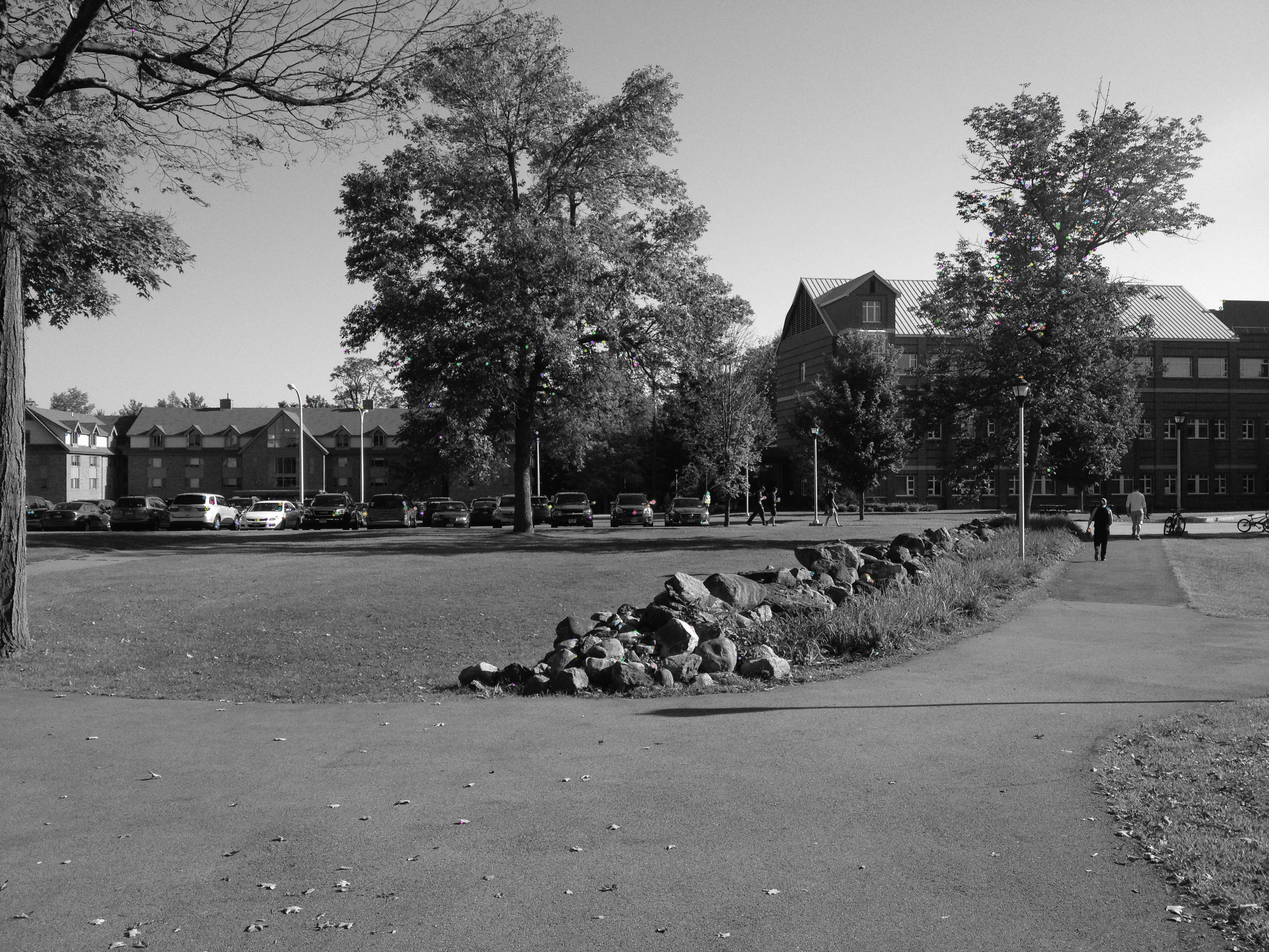
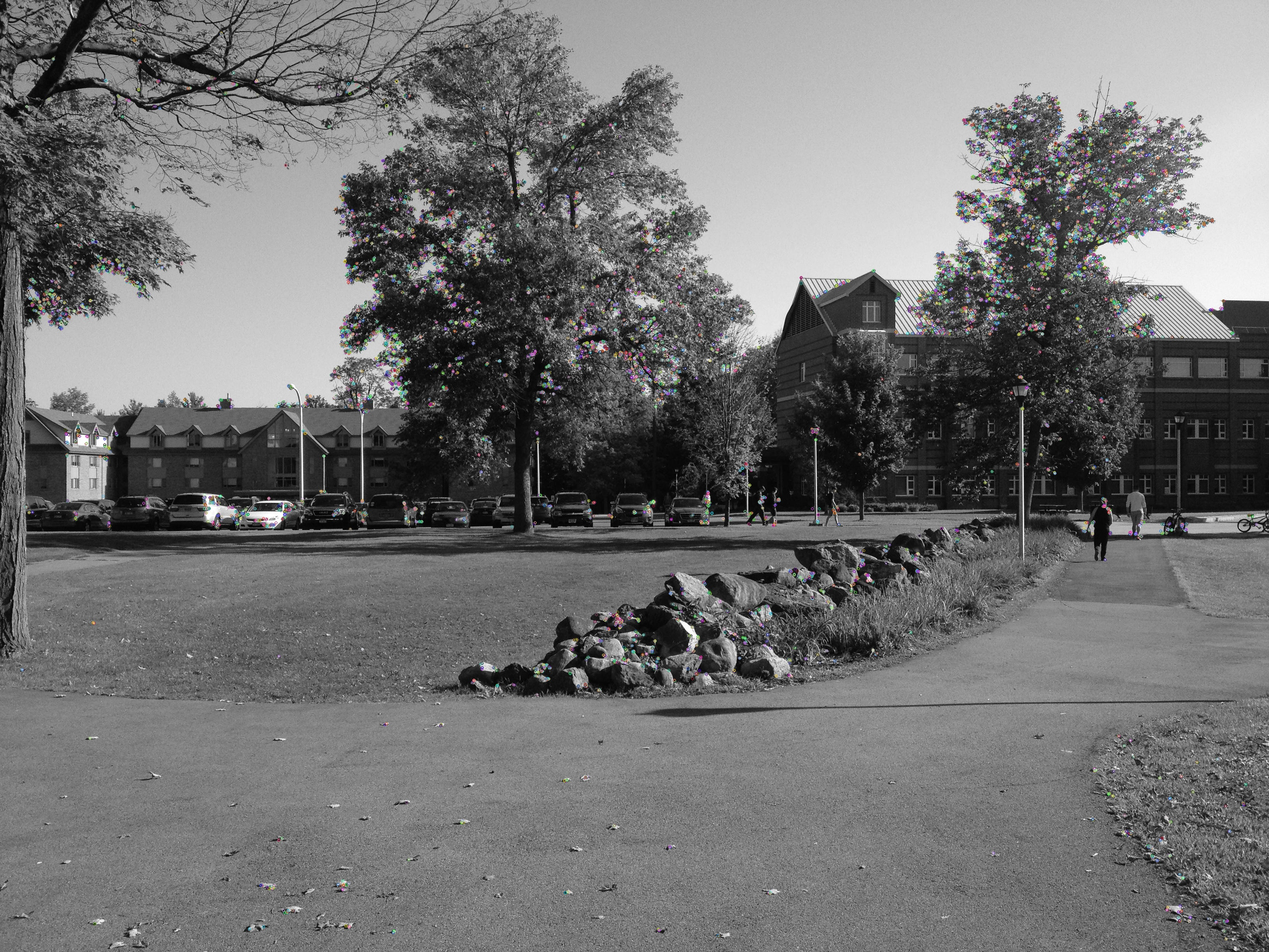
getCorrespondences w/ ORB works

diff --git a/HW_3/panorama.py b/HW_3/panorama.py
@@ -28,29 +28,18 @@ def setupImages(im1, im2):
     return im1, im2
 
 
-# Obtaining Correspondences using OpenCV's SIFT
+# Obtaining Correspondences using OpenCV's ORB and Brute Force Matcher
 def getCorrespondences(im1, im2):
-    
-    # Initialize a FAST object
-    fast = cv2.FastFeatureDetector_create(threshold=50)
-    
-    # Detect keypoints in both images
-    kp1 = fast.detect(im1, None)
-    kp2 = fast.detect(im2, None)
+
+    # Initiate ORB detector
+    orb = cv2.ORB_create(nfeatures=10000)
+    # find the keypoints and descriptors with ORB (https://docs.opencv.org/4.x/dc/dc3/tutorial_py_matcher.html)
+    kp1, desc1 = orb.detectAndCompute(im1,None)
+    kp2, desc2 = orb.detectAndCompute(im2,None)
 
     # Draw keypoints on both images
     im1 = cv2.drawKeypoints(im1, kp1, None)
     im2 = cv2.drawKeypoints(im2, kp2, None)
-
-    # Compute descriptors for keypoints
-    sift = cv2.SIFT_create()
-    desc1 = sift.compute(im1, kp1)[1]
-    desc2 = sift.compute(im2, kp2)[1]
-
-    #Use FAST to detect and compute descriptors for keypoints
-    kp1, desc1 = fast.detectAndCompute(im1, None)
-    kp2, desc2 = fast.detectAndCompute(im2, None)
-
 
     # Match descriptors from both images
     bf = cv2.BFMatcher(cv2.NORM_HAMMING, crossCheck=True)
@@ -80,16 +69,6 @@ def getCorrespondences(im1, im2):
     im2_points = np.array(im2_points)
     return im1_points, im2_points
 
-    # im1_points = []
-    # im2_points = []
-    # for match in matches:
-    #     im1_points.append(kp1[match.queryIdx].pt)
-    #     im2_points.append(kp2[match.trainIdx].pt)
-    
-    # # Convert the points objects to coordinates
-    # im1_points = np.array(im1_points)
-    # im2_points = np.array(im2_points)
-    # return im1_points, im2_points
     
 
 # Write a function, estimateTransform to determine the transform between ‘im1_points’
